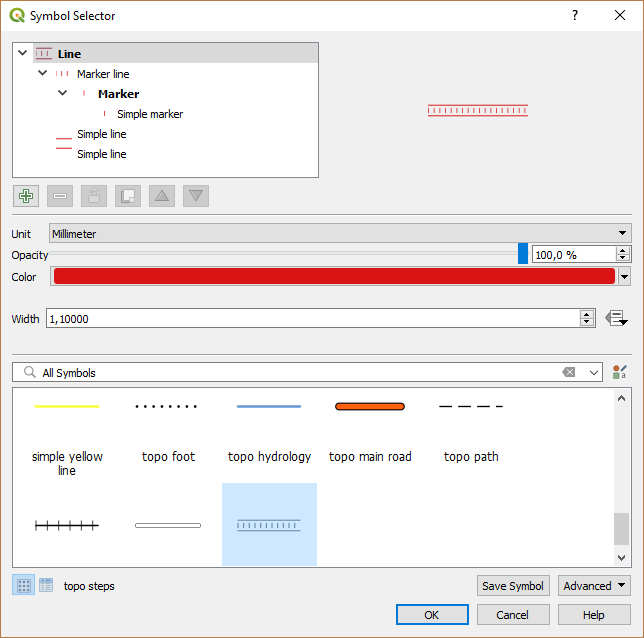
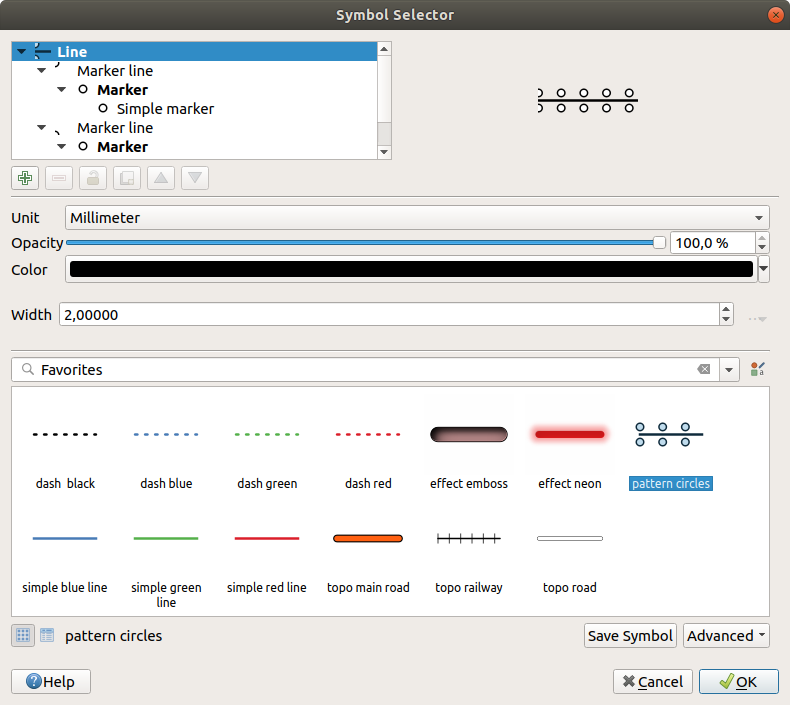
Update and harmonize style manager screenshots
Using the same environment (Ubuntu) for all the screenshots,
with more 3.x-like style items

Changed region(s): [[0.0, 0.0, 1.0, 1.0], [0.6522, 0.1191, 0.8075, 0.2085]]

diff --git a/source/docs/user_manual/working_with_vector/style_library.rst b/source/docs/user_manual/working_with_vector/style_library.rst
@@ -183,8 +183,8 @@ You can extend your symbols library by importing new symbols:
 #. Check |unchecked| :guilabel:`Do not import embedded tags` to avoid the import
    of tags associated to the items being imported.
 #. Give the name of any :guilabel:`Additional tag(s)` to apply to the new items.
-#. Select from the preview the symbols you want to add to your library.
-#. And press **Import**.
+#. Select from the preview the items you want to add to your library.
+#. And press :guilabel:`Import`.
 
 .. _figure_symbol_import:
 
